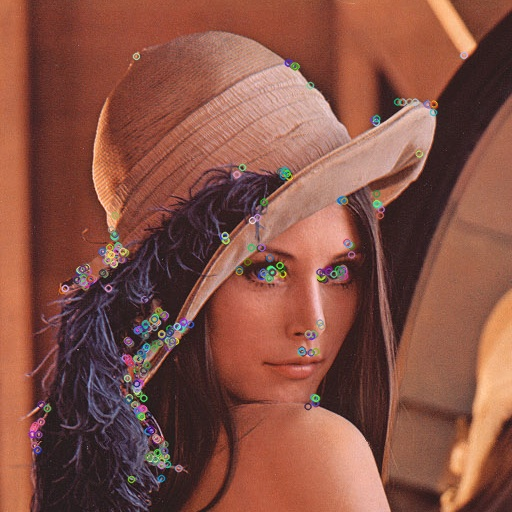
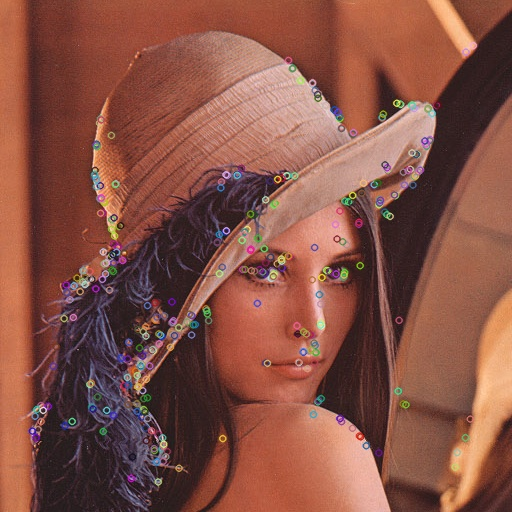
ORBでの特徴量検出について学びました

diff --git a/study.py b/study.py
@@ -54,10 +54,11 @@ def edd2canny(src):
 def feature(src):
     # カラーで読み込み
     img = cv2.imread(src,1)
-    # ORB
-    detector = cv2.ORB_create()
+    # ORB(detectorを変えるだけでアルゴリズムを変更できる)
+    detector = cv2.AKAZE_create()
     # 特徴検出
     keypoints = detector.detect(img)
+    print(len(keypoints))
     # 画像への特徴点の書き込み
     img_orb = cv2.drawKeypoints(img, keypoints, None)
     feature_img =cv2.imwrite("./tmp1/orb.jpg", img_orb)
